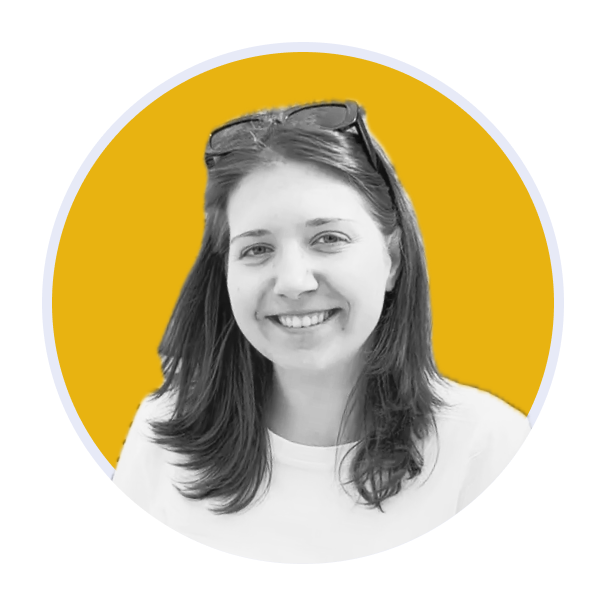
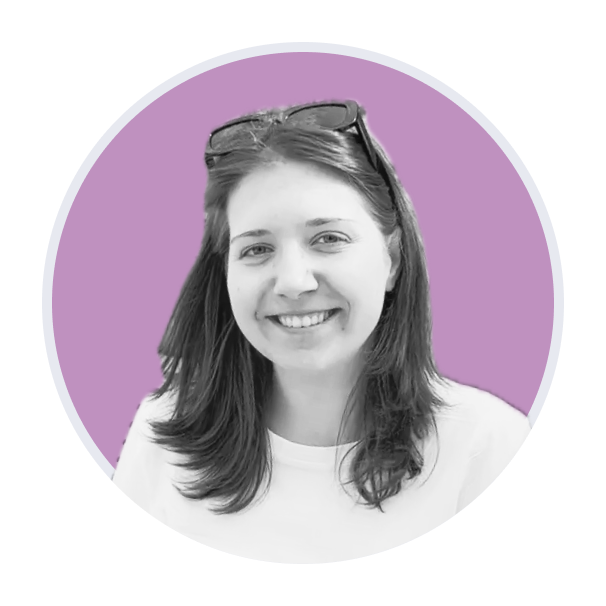
add new branding colors

Changed region(s): [[0.0594, 0.0594, 0.9208, 0.7723]]

diff --git a/src/styles/index_mobile.css b/src/styles/index_mobile.css
@@ -87,7 +87,7 @@
 }
 
 :root {
-    --primary_color_800: #033899;
+    --primary_color_800: #002684;
     --primary_color_100: #C2CBEA;
     --primary_color_200: #9AA9DC;
     --primary_color_50: #E7EAF7;
@@ -96,7 +96,7 @@
 
 body {
     font-family: 'futurabook', sans-serif;
-    font-size: 1.5rem;
+    font-size: 1rem;
     background-color: var(--primary_color_50);
     margin: 0;
 }
@@ -107,13 +107,12 @@ body {
     clear: both;
     position: fixed;
     top: 0;
-    width: 100%;
     box-shadow: 0em 2px 5px var(--primary_color_200);
 }
 
 #logo {
     float: left;
-    margin-left: 2rem;
+    margin-left: 1rem;
 }
 
 #logo button, img{
@@ -122,46 +121,27 @@ body {
     margin-top: 0;
 }
 
-#logo button, nav ul li a button {
+#logo button {
     box-shadow: 4px 4px var(--primary_color_200);
     margin-top: 0.5rem;
 }
 
-#logo button:hover, nav ul li a button:hover {
+#navbar {
+    visibility: hidden;
+}
+
+#logo button:hover {
     background-color: var(--primary_color_50);
     box-shadow: 4px 4px var(--primary_color_800);
 }
 
-nav ul {
-    list-style-type: none;
-    display: flex;
-    justify-content: center;
-    float: right;
-    margin: 0;
-}
-
-nav ul li a {
-    margin-right: 2rem;
-}
-
 header, #contact {
     font-family: 'futurabook', sans-serif;
-    display: grid;
-    grid-template-columns: repeat(auto-fit, minmax(15em, 1fr));
-}
-
-header {
-    margin: 4rem 0;
-}
-  
-.header-cell {
-    height: 30rem;
-    margin-top: 4rem;
 }
 
 #header-text {
-    padding-top: 7.5rem;
-    padding-left: 6rem;
+    padding-top: 7rem;
+    padding-left: 2rem;
 }
 
 #header-text p {
@@ -185,27 +165,23 @@ h2 {
 
 header .role {
     padding-top: 0.5rem;
-    margin-bottom: 3rem;
     color: var(--secondary_color_600);
-}
-
-header img, .contact-cell img {
-    max-width: 100%;
-    max-height: 100%;
 }
 
 #headshot-main {
     display: flex;
     align-items: center;
     justify-content: center;
+    padding-top: 3rem;
+    padding-bottom: 5rem;
 }
 
-section {
-    text-align: center;
+header img, .contact-cell img {
+    max-width: 80%;
+    max-height: 80%;
 }
 
 .contact-cell {
-    height: 20rem;
     background-color: var(--primary_color_800);
 }
 
@@ -213,14 +189,11 @@ section {
     display: flex;
     align-items: right;
     justify-content: right;
-    padding-right: 4rem;
 }
 
 #contact-text {
-    text-align: left;
-    padding-left: 5rem;
+    text-align: center;
     padding-top: 1rem;
-    height: 19rem;
     color: var(--primary_color_50)
 }
 

diff --git a/src/styles/index_desktop.css b/src/styles/index_desktop.css
@@ -87,11 +87,26 @@
 }
 
 :root {
-    --primary_color_800: #033899;
-    --primary_color_100: #C2CBEA;
-    --primary_color_200: #9AA9DC;
-    --primary_color_50: #E7EAF7;
-    --secondary_color_600: #E8B311;
+    --primary_color_50: #e7e9f0;
+    --primary_color_100: #c1c8db;
+    --primary_color_200: #9aa5c2;
+    --primary_color_300: #7482a9;
+    --primary_color_400: #576898;
+    --primary_color_500: #3a4f88;
+    --primary_color_600: #344780;
+    --primary_color_700: #2c3e75;
+    --primary_color_800: #253568;
+    --primary_color_900: #1b2550;
+    --secondary_color_50: #efe4ef;
+    --secondary_color_100: #d8bcd8;
+    --secondary_color_200: #bf91bf;
+    --secondary_color_300: #a669a5;
+    --secondary_color_400: #934c92;
+    --secondary_color_500: #813581;
+    --secondary_color_600: #76307b;
+    --secondary_color_700: #672a72;
+    --secondary_color_800: #582568;
+    --secondary_color_800: #3f1d55;
 }
 
 body {
@@ -171,7 +186,7 @@ header {
 }
 
 h1 {
-    color: var(--primary_color_800);
+    color: var(--primary_color_900);
     font-family: 'futuraheavy', sans-serif;
     font-size: 5rem;
     margin-top: 0;
@@ -186,7 +201,7 @@ h2 {
 header .role {
     padding-top: 0.5rem;
     margin-bottom: 3rem;
-    color: var(--secondary_color_600);
+    color: var(--secondary_color_400);
 }
 
 header img, .contact-cell img {
@@ -241,16 +256,18 @@ button {
     font-family: 'futuraheavy', sans-serif;
     border: none;
     border-radius: 10px;
-    box-shadow: 4px 4px var(--secondary_color_600);
+    box-shadow: 4px 4px var(--secondary_color_200);
 }
 
 button:hover {
-    background-color: var(--secondary_color_600);
+    color: var(--primary_color_900);
+    background-color: var(--secondary_color_200);
     box-shadow: 4px 4px var(--primary_color_50);
 }
 
 button:active {
-    background-color: var(--secondary_color_600);
+    color: var(--primary_color_900);
+    background-color: var(--secondary_color_200);
     box-shadow: 4px 4px var(--primary_color_50);
     transform: translateY(4px);
 }

diff --git a/src/scripts/index.js b/src/scripts/index.js
@@ -50,6 +50,6 @@ window.onload = function() {
     }
     // INJECT CSS
     var css = document.createElement("style");
-    css.innerHTML = ".typewrite > .wrap { border-right: 0.2em solid #E8B311}";
+    css.innerHTML = ".typewrite > .wrap { border-right: 0.2em solid #934C92}";
     document.body.appendChild(css);
 };
